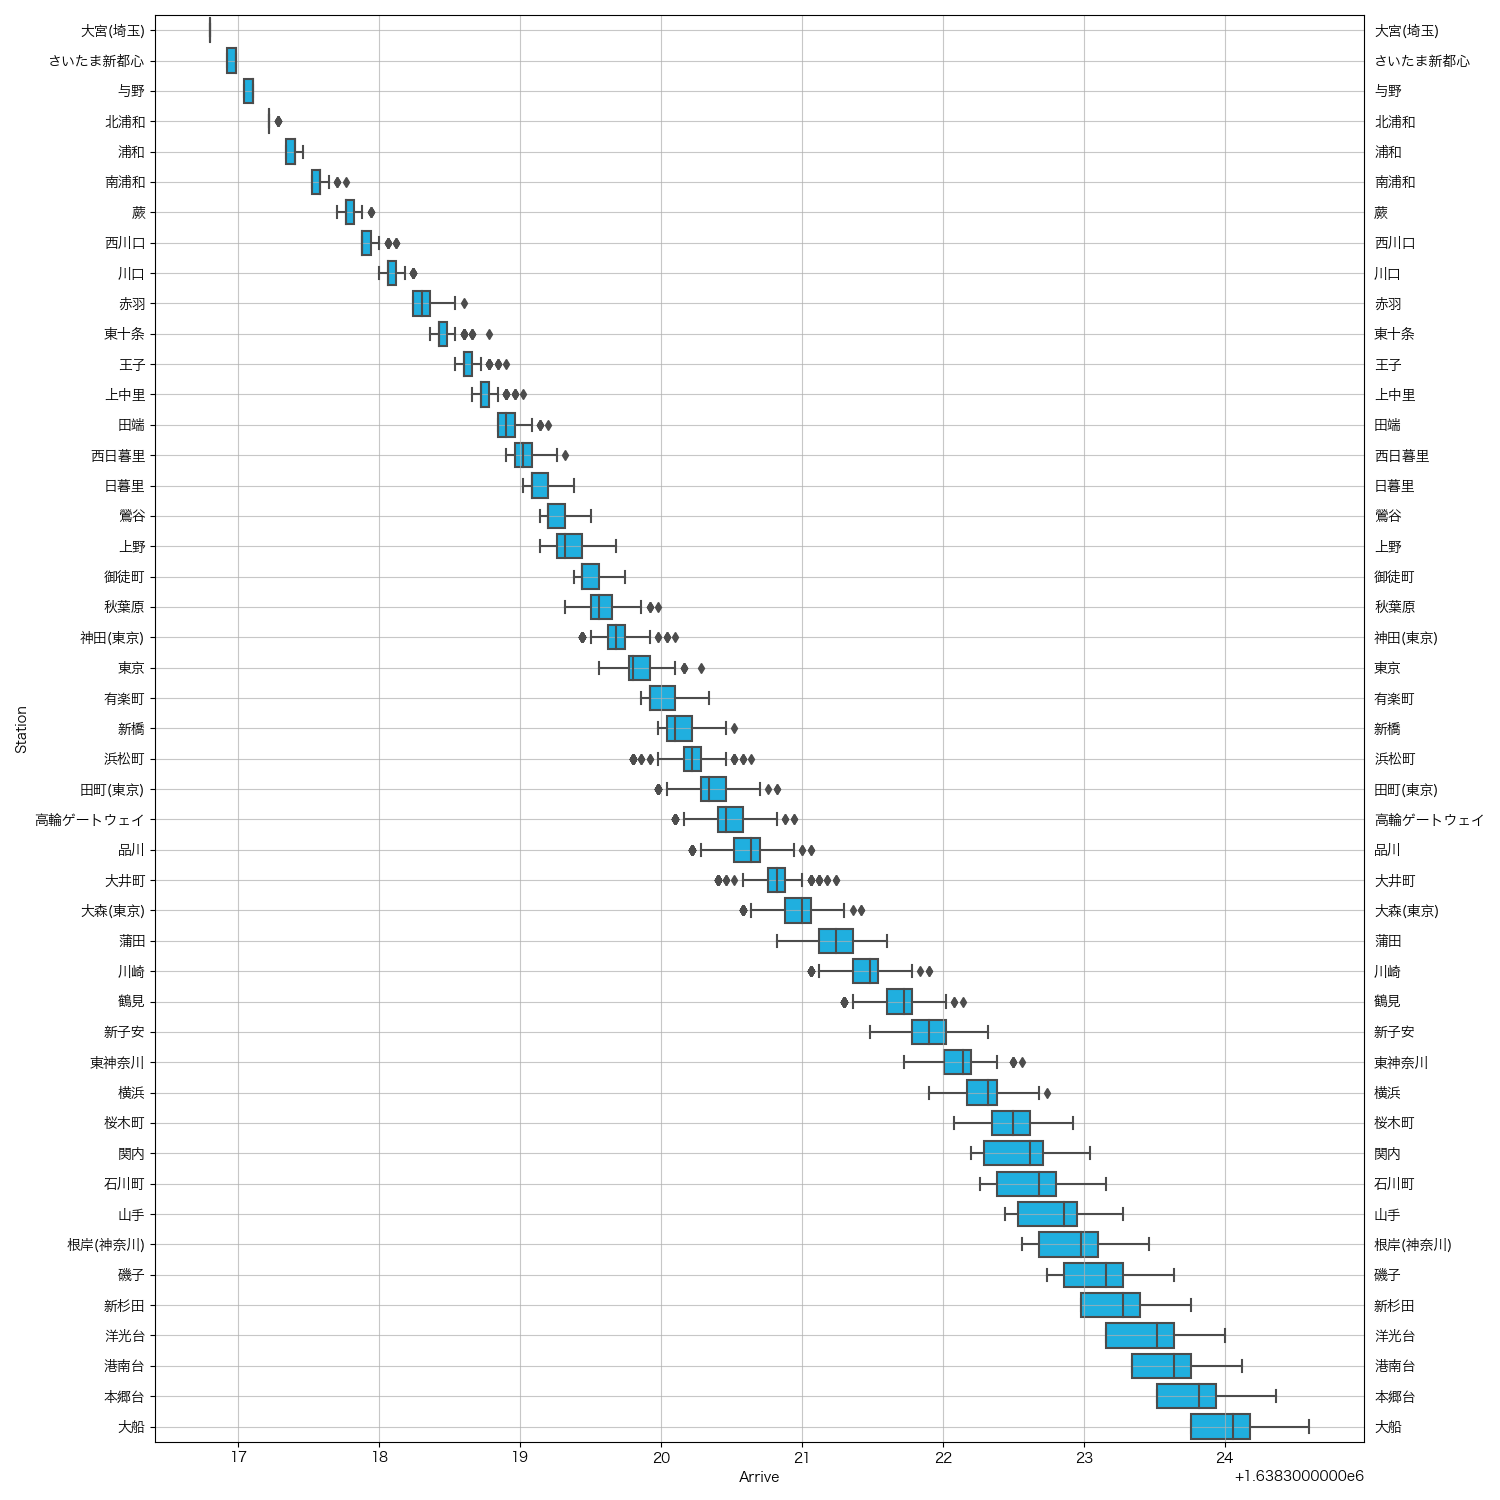
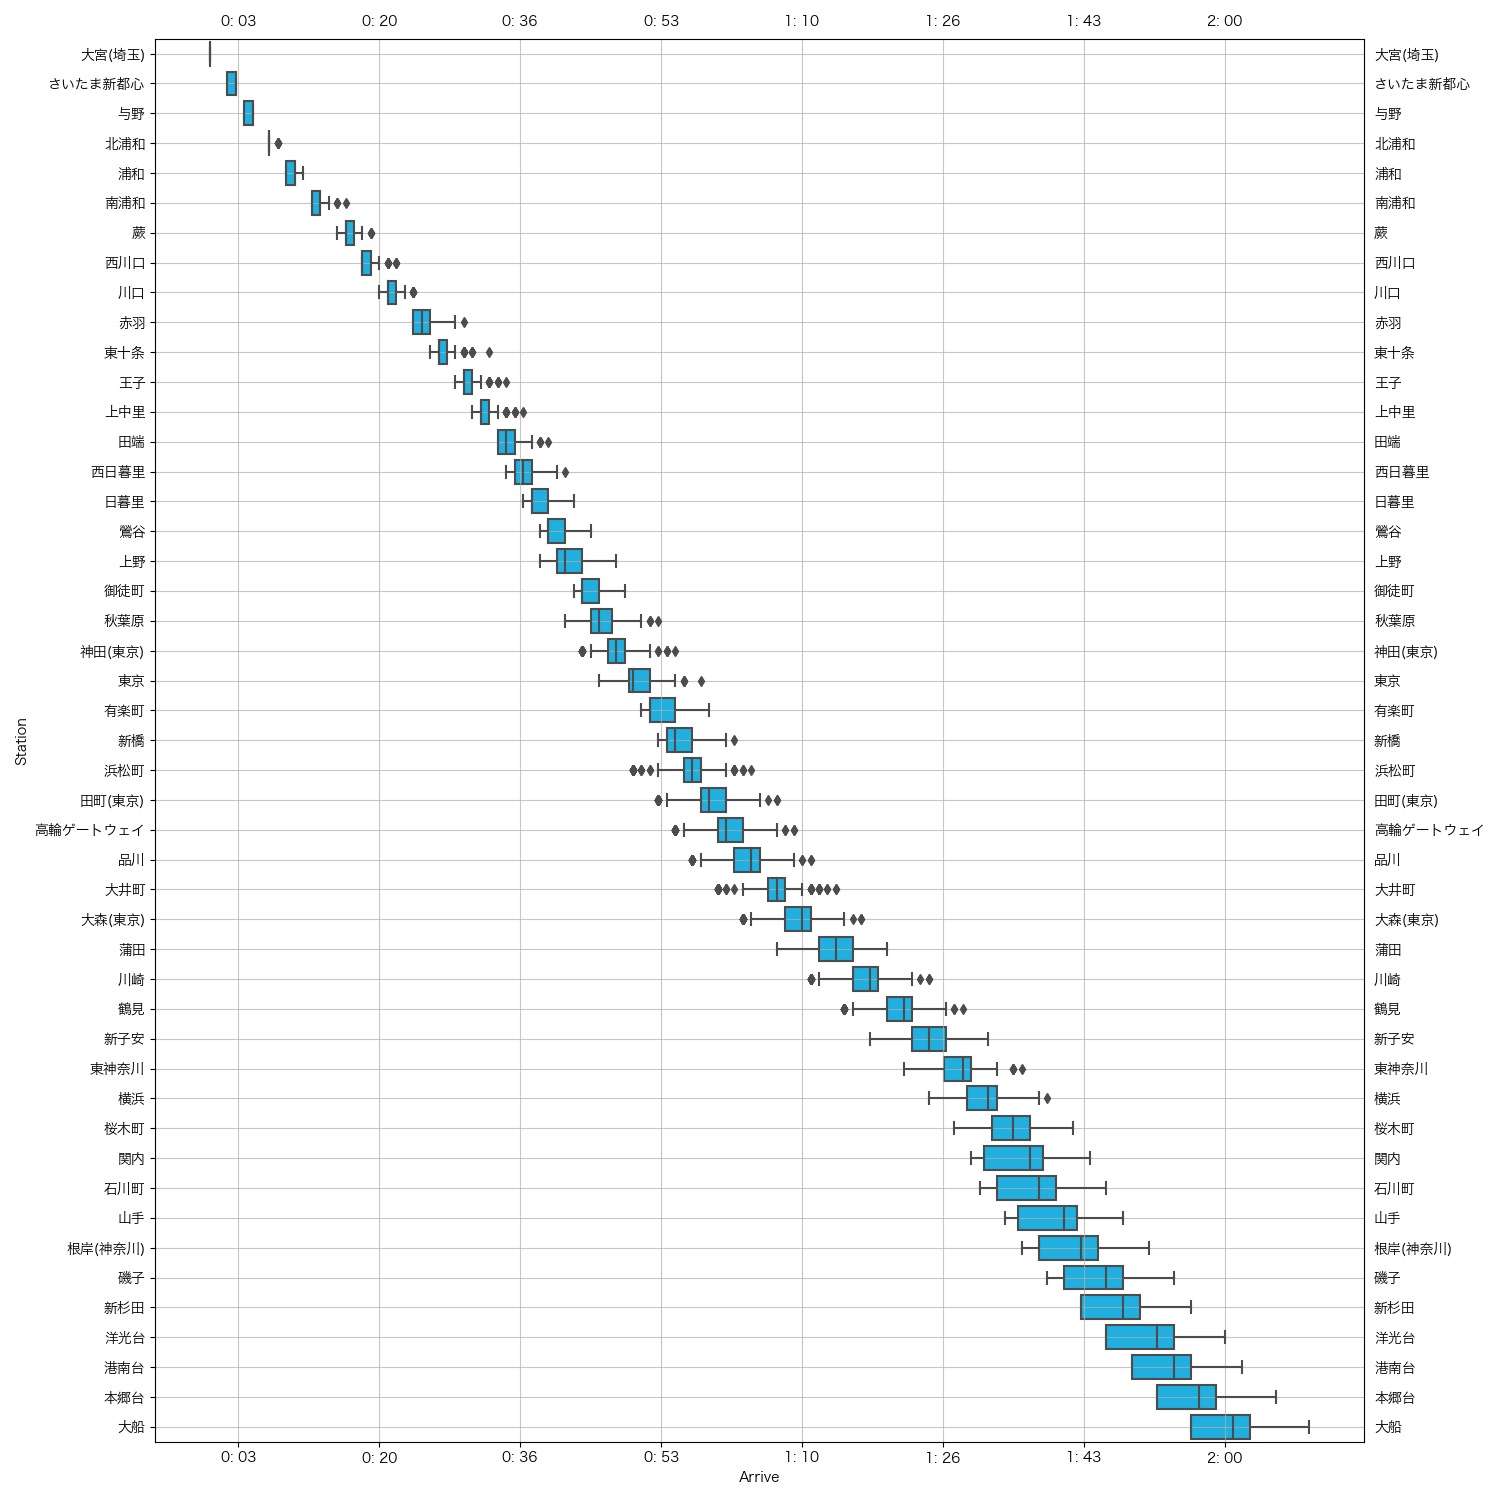
Fix x-axis formatting for boxplots

diff --git a/plot.py b/plot.py
@@ -1,5 +1,17 @@
 from common import Constants
+import pandas as pd
 
+
+def format_int_time(tick_value: int, pos: int) -> str:
+    '''
+    tick_value: int
+        The arrival time, after conversion to int and divided by 1e12
+    pos: int
+        The index of the tick
+    '''
+    dt = pd.to_datetime(tick_value * 1e12)
+    # {x : 03} means pad the string with zeros to ensure it is two digits
+    return f"{dt.hour}:{dt.minute : 03}"
 
 def seaborn_boxplot_combined(
     df: 'DataFrame',
@@ -7,6 +19,7 @@ def seaborn_boxplot_combined(
 ):
     import seaborn as sns
     import matplotlib.pyplot as plt
+    from matplotlib.ticker import FuncFormatter
     from common import mkdirs_touch_open
 
     if outfile.exists():
@@ -25,6 +38,8 @@ def seaborn_boxplot_combined(
     plt.grid(which='both', alpha=0.7)
     plt.gca().tick_params(axis='x', which='minor')
     plt.gca().yaxis.set_tick_params(labelright='on')
+    plt.gca().xaxis.set_major_formatter(FuncFormatter(format_int_time))
+    plt.gca().xaxis.set_tick_params(labeltop='on')
     plt.tight_layout()
     mkdirs_touch_open('', outfile)
     plt.savefig(outfile)
@@ -37,8 +52,7 @@ def seaborn_boxplot(
 ):
     import seaborn as sns
     import matplotlib.pyplot as plt
-    from matplotlib.dates import DateFormatter
-    from matplotlib.ticker import AutoMinorLocator
+    from matplotlib.ticker import FuncFormatter
     from common import mkdirs_touch_open
 
     outfile = Constants.plot_dir / f'{line_name}_{plot_name}.png'
@@ -70,10 +84,8 @@ def seaborn_boxplot(
 
     plt.grid(which='both', alpha=0.7)
     plt.gca().tick_params(axis='x', which='minor')
-#    #plt.gca().xaxis.set_minor_locator(AutoMinorLocator(2))
-#    #plt.gca().xaxis.set_major_formatter(DateFormatter('%H:%M'))
-#    #plt.gca().xaxis.set_minor_formatter(DateFormatter('%H:%M'))
-#    plt.gca().xaxis.set_tick_params(labeltop='on')
+    plt.gca().xaxis.set_major_formatter(FuncFormatter(format_int_time))
+    plt.gca().xaxis.set_tick_params(labeltop='on')
     plt.gca().yaxis.set_tick_params(labelright='on')
     plt.tight_layout()
     mkdirs_touch_open('', outfile)
